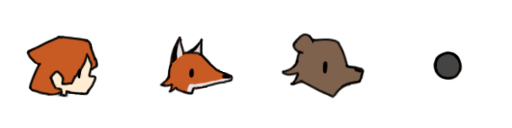
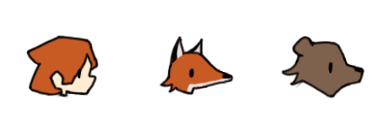
add proper rock projectile animation

Changed region(s): [[0.3125, 0.25, 0.9688, 0.7812], [0.0312, 0.25, 0.2812, 0.7812]]

diff --git a/client/Player.ts b/client/Player.ts
@@ -7,6 +7,7 @@ import {
     HasAppearance,
     SpriteMetaData,
     AttackData,
+    rockProjectileMetaData,
 } from "./constants";
 import { initializeAnimations } from "./animations";
 import { getSpriteMetaData } from "./constants";
@@ -233,7 +234,7 @@ class Player extends BaseSprite {
         const projectile = new Projectile(
             teamName,
             this.sprite.scene,
-            playerSpriteMetaData,
+            rockProjectileMetaData,
             x,
             y,
             this.direction,
@@ -247,6 +248,7 @@ class Player extends BaseSprite {
         );
         const onHit = () => {
             clearInterval(intersectionChecker);
+            projectile.freeze();
             projectile.remove();
         };
     }
@@ -271,6 +273,13 @@ class Projectile implements HasAppearance {
         );
         const { vx, vy } = initialVelocity;
         this.sprite.setVelocity(vx, vy);
+        initializeAnimations(this.sprite, this.spriteData.spriteKey);
+        this.sprite.on(
+            "animationcomplete",
+            (e: Phaser.Animations.Animation) => {
+                if (e.key === "break") this.sprite.destroy();
+            }
+        );
     }
 
     public getAppearance(): SpriteAppearance {
@@ -293,13 +302,18 @@ class Projectile implements HasAppearance {
         return { x: this.sprite.x, y: this.sprite.y };
     }
 
+    /** Sets velocity to 0 */
+    public freeze() {
+        this.sprite.setVelocity(0, 0);
+    }
+
     /**
      * Plays the projectile breaking animation and then removes the sprite object
      * from the Phaser system.
      */
     public remove() {
         // TODO: animation
-        this.sprite.destroy();
+        this.sprite.anims.play("break");
     }
 }
 

diff --git a/client/constants.ts b/client/constants.ts
@@ -13,6 +13,7 @@ export enum SpriteSheet {
     FOX = "fox",
     BEAR = "bear",
     ICONS = "icon",
+    ROCK_PROJECTILE = "rock",
 }
 
 export enum Sound {
@@ -94,6 +95,10 @@ export const SpriteSheetSizes = {
     [SpriteSheet.ICONS]: {
         frameWidth: 128,
         frameHeight: 128,
+    },
+    [SpriteSheet.ROCK_PROJECTILE]: {
+        frameWidth: 64,
+        frameHeight: 64,
     },
 };
 
@@ -188,6 +193,24 @@ const bearSpriteMetaData: SpriteMetaData = {
     },
 };
 
+export const rockProjectileMetaData: SpriteMetaData = {
+    spriteKey: SpriteSheet.ROCK_PROJECTILE,
+    width: 30,
+    height: 30,
+    idleFrame: 0,
+    // assign meaningless values for the rest
+    iconFrame: -1,
+    health: 0,
+    walkSpeed: 0,
+    jumpVelocity: 0,
+    attackData: {
+        damage: 0,
+        aoe: false,
+        knockbackPrecedence: 0,
+        type: AttackType.MELEE,
+    },
+};
+
 export function getSpriteMetaData(asset: SpriteSheet): SpriteMetaData {
     switch (asset) {
         case SpriteSheet.PLAYER:
@@ -198,6 +221,8 @@ export function getSpriteMetaData(asset: SpriteSheet): SpriteMetaData {
             return foxSpriteMetaData;
         case SpriteSheet.BEAR:
             return bearSpriteMetaData;
+        case SpriteSheet.ROCK_PROJECTILE:
+            return rockProjectileMetaData;
     }
     throw new Error(`No metadata data associated with spritesheet ${asset}`);
 }

diff --git a/client/utils.ts b/client/utils.ts
@@ -13,6 +13,7 @@ import basicBotSpritesheet from "./static/basic_bot_spritesheet.png";
 import foxSpritesheet from "./static/fox_spritesheet.png";
 import bearSpritesheet from "./static/bear_spritesheet.png";
 import iconSheet from "./static/icons.png";
+import rockSpritesheet from "./static/rock_projectile_spritesheet.png";
 import { baseColor, darkenedColor, paragraphTextStyleBase } from "./ui";
 import { Player } from "./Player";
 import { HasLocation } from "./constants";
@@ -351,6 +352,7 @@ export function loadSprites(
         SpriteSheet.ICONS,
         SpriteSheet.BASIC_BOT,
         SpriteSheet.BEAR,
+        SpriteSheet.ROCK_PROJECTILE,
     ]
 ) {
     spriteList.forEach((spriteKey) => {
@@ -368,4 +370,5 @@ const spriteSheetMap = {
     [SpriteSheet.BEAR]: bearSpritesheet,
     [SpriteSheet.BASIC_BOT]: basicBotSpritesheet,
     [SpriteSheet.ICONS]: iconSheet,
+    [SpriteSheet.ROCK_PROJECTILE]: rockSpritesheet,
 };

diff --git a/client/animations.ts b/client/animations.ts
@@ -166,4 +166,23 @@ export function initializeAnimations(
             repeat: -1,
         });
     }
+    if (spriteKeys.includes(SpriteSheet.ROCK_PROJECTILE)) {
+        const spriteKey = SpriteSheet.ROCK_PROJECTILE;
+        sprite.anims.create({
+            key: "idle",
+            frames: scene.anims.generateFrameNumbers(spriteKey, {
+                frames: [0],
+            }),
+            frameRate: 1,
+            repeat: -1,
+        });
+        sprite.anims.create({
+            key: "break",
+            frames: scene.anims.generateFrameNumbers(spriteKey, {
+                start: 1,
+                end: 6,
+            }),
+            frameRate: 10,
+        });
+    }
 }
